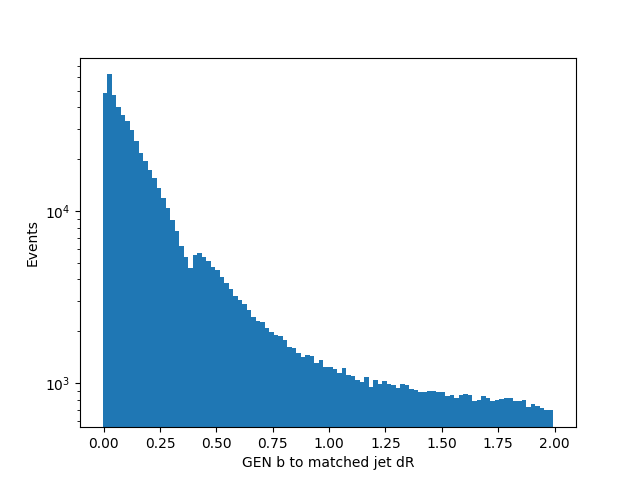
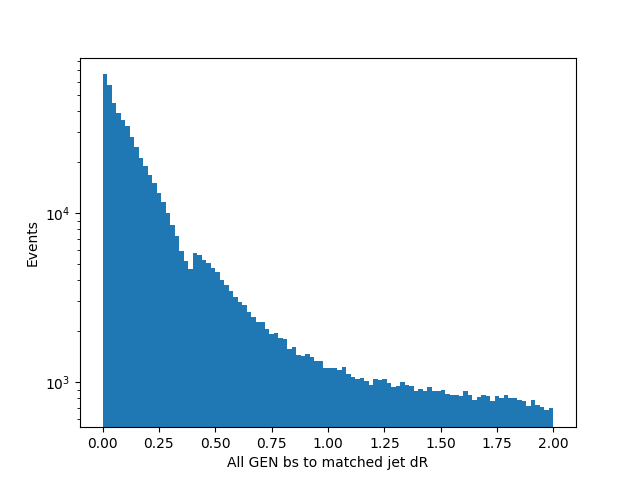
Split bdR plots and fixed cutflow code

diff --git a/n00dle.py b/n00dle.py
@@ -72,21 +72,22 @@ def ana(files):
         "beta"+str(i):      Hist(66,(-3.3,3.3),'GEN b '+str(i)+' Eta','Events','upplots/beta'+str(i)),
         "bpT"+str(i):       Hist(100,(-0.5,99.5),'GEN pT of b '+str(i),'Events','upplots/bdRpT'+str(i)),
         "bjetpT"+str(i):    Hist(100,(-0.5,99.5),'Matched RECO jet '+str(i)+' pT','Events','upplots/RjetpT'+str(i)),
-        "bjeteta"+str(i):   Hist(66,(-3.3,3.3),'Matched RECO jet '+str(i)+' Eta','Events','upplots/Rjeteta'+str(i))
+        "bjeteta"+str(i):   Hist(66,(-3.3,3.3),'Matched RECO jet '+str(i)+' Eta','Events','upplots/Rjeteta'+str(i)),
+        "bdR"+str(i):       Hist(100,(0,2),'GEN b '+str(i)+' to matched jet dR','Events','upplots/bdR'+str(i))
         })
     plots = {
         "bphi":     Hist(66,(-3.3,3.3),'GEN b Phi','Events','upplots/bphi'),
-        "bdR":      Hist(100,(-0.005,1.995),'GEN b to matched jet dR','Events','upplots/bdR'),
+        "bdR":      Hist(100,(0,2),'All GEN bs to matched jet dR','Events','upplots/bdR'),
         "RjetpT":   Hist(100,(0,100),'All RECO jet pT','Events','upplots/RjetpT'),
         "GoverRjetpT":  Hist(100,(0,100),'jet pT','Ratio of GEN b pT / RECO jet pT for matched jets','upplots/GRjetpT'),
-        "bdRvlogbpT1":   Hist2d([80,100],[[0,8],[0,.01]],'log2(GEN b pT)','dR from 1st pT GEN b to matched RECO jet','upplots/bdRvlogbpT1'),
-        "bdRvlogbpT2":   Hist2d([80,100],[[0.,8],[0,.01]],'log2(GEN b pT)','dR from 2nd pT GEN b to matched RECO jet','upplots/bdRvlogbpT2'),
-        "bdRvlogbpT3":   Hist2d([80,100],[[0.,8],[0,.01]],'log2(GEN b pT)','dR from 3rd pT GEN b to matched RECO jet','upplots/bdRvlogbpT3'),
-        "bdRvlogbpT4":   Hist2d([80,100],[[0.,8],[0,.01]],'log2(GEN b pT)','dR from 4th pT GEN b to matched RECO jet','upplots/bdRvlogbpT4'),
-        "jetoverbpTvlogbpT1":    Hist2d([80,50],[[0,8],[0,5]],'log2(GEN b pT)','RECO jet pT / 1st GEN b pT for matched jets','upplots/jetoverbpTvlogbpT1'),
-        "jetoverbpTvlogbpT2":    Hist2d([80,50],[[0,8],[0,5]],'log2(GEN b pT)','RECO jet pT / 2nd GEN b pT for matched jets','upplots/jetoverbpTvlogbpT2'),
-        "jetoverbpTvlogbpT3":    Hist2d([80,50],[[0,8],[0,5]],'log2(GEN b pT)','RECO jet pT / 3rd GEN b pT for matched jets','upplots/jetoverbpTvlogbpT3'),
-        "jetoverbpTvlogbpT4":    Hist2d([80,50],[[0,8],[0,5]],'log2(GEN b pT)','RECO jet pT / 4th GEN b pT for matched jets','upplots/jetoverbpTvlogbpT4'),
+        "bdRvlogbpT1":   Hist2d([80,200],[[0,8],[0,2]],'log2(GEN b pT)','dR from 1st pT GEN b to matched RECO jet','upplots/bdRvlogbpT1'),
+        "bdRvlogbpT2":   Hist2d([80,200],[[0,8],[0,2]],'log2(GEN b pT)','dR from 2nd pT GEN b to matched RECO jet','upplots/bdRvlogbpT2'),
+        "bdRvlogbpT3":   Hist2d([80,200],[[0,8],[0,2]],'log2(GEN b pT)','dR from 3rd pT GEN b to matched RECO jet','upplots/bdRvlogbpT3'),
+        "bdRvlogbpT4":   Hist2d([80,200],[[0,8],[0,2]],'log2(GEN b pT)','dR from 4th pT GEN b to matched RECO jet','upplots/bdRvlogbpT4'),
+        "jetoverbpTvlogbpT1":    Hist2d([60,40],[[2,8],[0,4]],'log2(GEN b pT)','RECO jet pT / 1st GEN b pT for matched jets','upplots/jetoverbpTvlogbpT1'),
+        "jetoverbpTvlogbpT2":    Hist2d([60,40],[[2,8],[0,4]],'log2(GEN b pT)','RECO jet pT / 2nd GEN b pT for matched jets','upplots/jetoverbpTvlogbpT2'),
+        "jetoverbpTvlogbpT3":    Hist2d([60,40],[[2,8],[0,4]],'log2(GEN b pT)','RECO jet pT / 3rd GEN b pT for matched jets','upplots/jetoverbpTvlogbpT3'),
+        "jetoverbpTvlogbpT4":    Hist2d([60,40],[[2,8],[0,4]],'log2(GEN b pT)','RECO jet pT / 4th GEN b pT for matched jets','upplots/jetoverbpTvlogbpT4'),
     }
     GjetpT = Hist(100,(0,100))
     RjetpT = Hist(100,(0,100))
@@ -178,6 +179,7 @@ def ana(files):
             bjplots['beta'+str(i+1)].dfill(bs.eta[[i+1]])
             bjplots['bjetpT'+str(i+1)].dfill(jets.pt[blist[i]>0])
             bjplots['bjeteta'+str(i+1)].dfill(jets.eta[blist[i]>0])
+            bjplots['bdR'+str(i+1)].dfill(np.sqrt(blist[i][blist[i]!=0]))
 
         ## Fill a jet pt array populated only by the jet in each event with the lowest dR to any b
         plots['bdR'].dfill(np.sqrt(bjdr2[bjdr2!=0]))
@@ -186,6 +188,8 @@ def ana(files):
         plots['GoverRjetpT'].add(GjetpT.divideby(RjetpT,split=True))
     plt.clf()
     plots.pop('bdR').plot(logv=True)
+    for i in range(1,5):
+        bjplots.pop('bdR'+str(i)).plot(logv=True)
     for p in plots:
         plt.clf()
         plots[p].plot()
@@ -219,8 +223,8 @@ def trig(files):
         'sipplot':      Hist(20,(0,20),'Highest Muon SIP', 'Events', 'upplots/TrigSIPplot'),
         'hsipplot':     Hist(20,(0,20),'Highest Muon SIP', 'Events', 'upplots/TrigHSIPplot'),
         'ratiosipplot': Hist(20,(0,20),'Highest Muon SIP', 'HLT_Mu7_IP4 / Events with muons of sip > 5', 'upplots/TrigRatioSIPplot'),
-        'HLTcutflow':      Hist(20,(-0.5,19.5),'','Events','upplots/cutflowHLT'),
-        'L1Tcutflow':      Hist(20,(-0.5,19.5),'','Events','upplots/cutflowL1T')
+        'HLTcutflow':      Hist(12,(-0.5,11.5),'All // Global Cuts // HLT_Mu7/8/9/12_IP4/3,5,6/4,5,6/6','Events','upplots/cutflowHLT'),
+        'L1Tcutflow':      Hist(12,(-0.5,11.5),'All // Global Cuts // L1_SingleMu6/7/8/9/10/12/14/16/18','Events','upplots/cutflowL1T')
     }
     ## Create an internal figure for pyplot to write to
     plt.figure(1)
@@ -264,13 +268,11 @@ def trig(files):
         ## Fill the rest of the bins
         ct = 2
         for i in HLT:
-            print(i)
-            plots['HLTcutflow'].fill(((HLT[i]==True)*ct).dropna())
+            plots['HLTcutflow'].dfill(((HLT[i]==True).dropna())*ct)
             ct = ct + 1
         ct = 2
         for i in L1T:
-            print(i)
-            plots['L1Tcutflow'].fill(((L1T[i]==True)*ct).dropna())
+            plots['L1Tcutflow'].dfill(((L1T[i]==True)*ct).dropna())
             ct = ct + 1
 
         ## Cut muons and trim triggers to the new size
@@ -292,6 +294,10 @@ def trig(files):
         plots['hsipplot'].fill(MuonS.sip3d[TrigS.vals].max(axis=1).dropna(how='all'))
     plots['ratioptplot'].add(plots['hptplot'].divideby(plots['ptplot'],split=True))
     plots['ratiosipplot'].add(plots['hsipplot'].divideby(plots['sipplot'],split=True))
+    plt.clf
+    plots.pop('HLTcutflow').norm().plot(logv=True)
+    plt.clf
+    plots.pop('L1Tcutflow').norm().plot()
     for pl in plots:
         plt.clf()
         plots[pl].plot()

diff --git a/analib.py b/analib.py
@@ -60,11 +60,19 @@ class Hist(object):
         s.hs[0][np.isnan(s.hs[0])] = 0
         return s
 
+    def norm(s,tar=0,split=False):
+        if split:
+            s = cp.deepcopy(s)
+        nval = s.hs[0][tar]
+        s.hs[0] = s.hs[0]/nval
+        return s
+
     ## Creates and returns a pyplot-compatible histogram object
     def make(s,logv=False):
         return plt.hist(s.hs[1][:s.size],s.size,s.bounds,weights=s.hs[0],log=logv)
 
     def plot(s,logv=False):
+        plt.clf()
         s.make(logv)
         if s.xlabel != '':
             plt.xlabel(s.xlabel)
